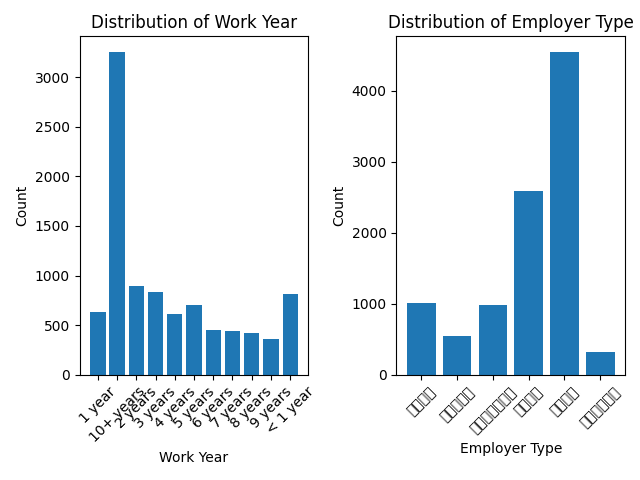
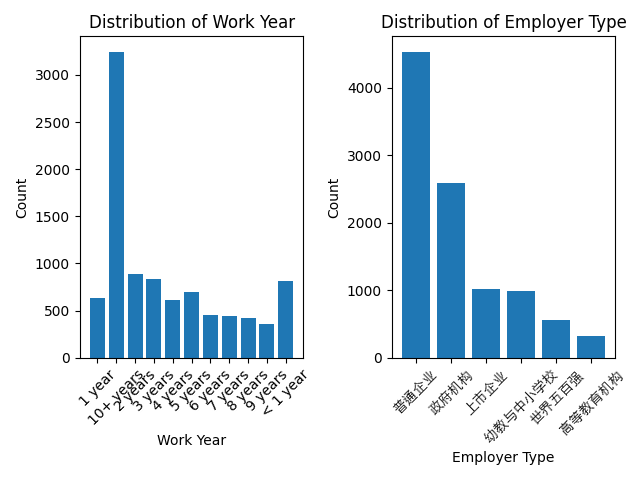
task3

diff --git a/HW1/task3.py b/HW1/task3.py
@@ -1,30 +1,53 @@
 import pandas as pd
 import matplotlib.pyplot as plt
-import scipy.stats as stats
+from matplotlib import font_manager
 import numpy as np
 
 df = pd.read_csv('data_10000.csv')
 
 # TASK 3.1
 work_year_cnt=df['work_year'].value_counts().sort_index()
-employer_type_cnt=df['employer_type'].value_counts().sort_index()
+employer_type_cnt=df['employer_type'].value_counts()
 
 plt.subplot(1, 2, 1)
-plt.bar(work_year_cnt.index.astype(str), work_year_cnt.values)
+plt.bar(work_year_cnt.index, work_year_cnt.values)
 plt.title('Distribution of Work Year')
 plt.xlabel('Work Year')
 plt.ylabel('Count')
 plt.xticks(rotation=45)
 
 plt.subplot(1, 2, 2)
-plt.bar(employer_type_cnt.index.astype(str), employer_type_cnt.values)
+plt.bar(employer_type_cnt.index, employer_type_cnt.values)
 plt.title('Distribution of Employer Type')
 plt.xlabel('Employer Type')
 plt.ylabel('Count')
+plt.xticks(fontproperties=font_manager.FontProperties(fname='/System/Library/Fonts/STHeiti Light.ttc'))
 plt.xticks(rotation=45)
 
 plt.tight_layout()
 plt.savefig("task3_year&typedist.png")
 
 # TASK 3.2
+percentiles=np.linspace(0, 1, 11)
+bins=df['monthly_payment'].quantile(percentiles).values
+df['monthly_payment_bins']=pd.cut(df['monthly_payment'], bins, include_lowest=True)
+bin_counts=df['monthly_payment_bins'].value_counts().sort_index()
+plt.figure(figsize=(10, 10))
+plt.bar(bin_counts.index.astype(str), bin_counts.values)
+plt.title('Equal Depth Binning of Monthly Payment')
+plt.xlabel('Monthly Payment Range')
+plt.ylabel('Count')
+plt.xticks(rotation=45)
+plt.savefig("task3_monthlypayment.png")
+
 # TASK 3.3
+bins=np.linspace(df['scoring_low'].min(), df['scoring_low'].max(), 11)
+df['scoring_low_bins']=pd.cut(df['scoring_low'], bins, include_lowest=True)
+bin_counts=df['scoring_low_bins'].value_counts().sort_index()
+plt.figure(figsize=(10, 10))
+plt.bar(bin_counts.index.astype(str), bin_counts.values, color='teal')
+plt.title('Equal Width Binning of Scoring Low')
+plt.xlabel('Scoring Low Range')
+plt.ylabel('Count')
+plt.xticks(rotation=45)
+plt.savefig("task3_scoringlow.png")
